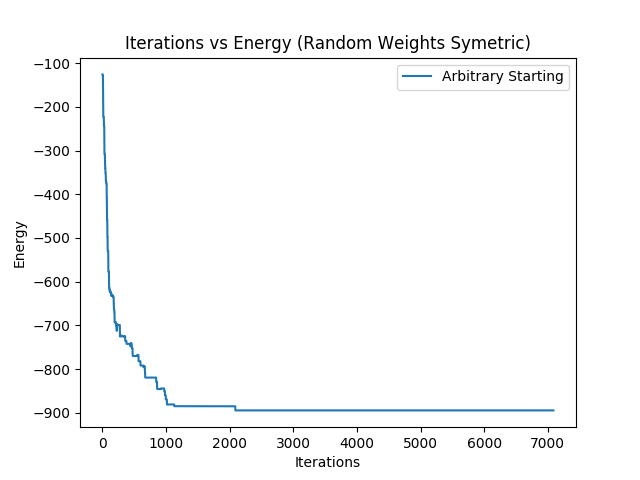
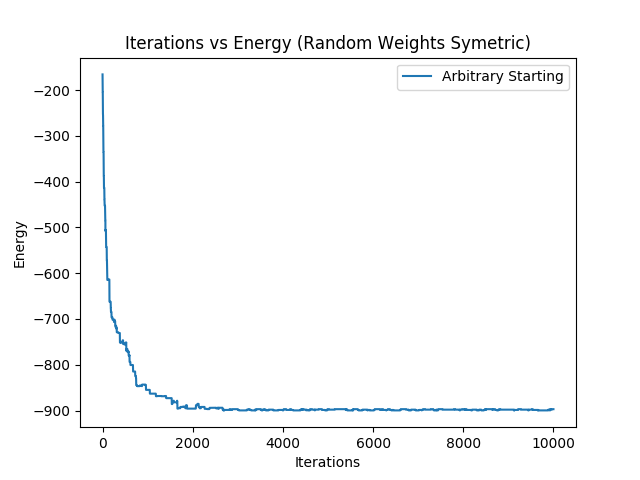
suppose to keep diagonal lol

diff --git a/lab3/_3_3.py b/lab3/_3_3.py
@@ -23,25 +23,23 @@ def plotCurves(curves, xlabel, ylabel, title, save_file=None):
 if __name__ == "__main__":
     images = loadImgs()
 
-    # net = Hopfield()
-    # net.train(images[:3])
+    net = Hopfield()
+    net.train(images[:3])
 
-    # print ("Energy at Attractors")
-    # for i, im in enumerate(images[:3]):
-    #     print (f"p{i+1} &", net.energy(im))
+    print ("Energy at Attractors")
+    for i, im in enumerate(images[:3]):
+        print (f"p{i+1} &", net.energy(im))
 
-    # print ("Energy at Distorted")
-    # for i, im in enumerate(images[9:]):
-    #     print (f"p{i+10} &", net.energy(im))
+    print ("Energy at Distorted")
+    for i, im in enumerate(images[9:]):
+        print (f"p{i+10} &", net.energy(im))
 
-    # p = []
-    # for i in (9,10):
-    #     net.predict_async(images[i])
-    #     p.append((f"p{i+1}", net.past_energy))
+    p = []
+    for i in (9,10):
+        net.predict_async(images[i])
+        p.append((f"p{i+1}", net.past_energy))
 
-    # print (dict(p))
-
-    # plotCurves(dict(p), "Iterations", "Energy", "Iterations vs Energy", save_file="3_3_it_vs_energy.png")
+    plotCurves(dict(p), "Iterations", "Energy", "Iterations vs Energy", save_file="pictures/3_3_it_vs_energy.png")
 
     net = Hopfield()
 
@@ -50,7 +48,7 @@ if __name__ == "__main__":
     assert not np.array_equal(net.W, net.W.T)
 
     x = sign(np.random.randn(100))
-    net.predict_async(x)
+    net.predict_async(x, max_iter=10000)
 
     plotCurves(
         {"Arbitrary Starting": net.past_energy},
@@ -65,7 +63,7 @@ if __name__ == "__main__":
     assert np.array_equal(net.W, net.W.T)
 
     x = sign(np.random.randn(100))
-    net.predict_async(x)
+    net.predict_async(x, max_iter=10000)
 
     plotCurves(
         {"Arbitrary Starting": net.past_energy},

diff --git a/lab3/_3_5.py b/lab3/_3_5.py
@@ -1,0 +1,33 @@
+from _3_1 import Hopfield, sign
+from _3_2 import loadImgs, showImage
+import numpy as np
+import matplotlib.pyplot as plt
+
+if __name__ == "__main__":
+    images = loadImgs()[:9]
+    images = np.flip(images, axis=0)
+    N = images.shape[1]
+
+    for train_idx in range(len(images)):
+        to_train = images[:train_idx + 1]
+
+        net = Hopfield()
+        net.train(to_train)
+
+        # try reconvering the last image (target) from a noisy version of target
+        target = to_train[0]
+
+        args = np.random.choice(N, int(0 * N), replace=False)
+        noisy = np.copy(target)
+        noisy[args] = noisy[args] * -1
+
+        pred = net.predict_sync(noisy)
+
+        # [ showImage(p) for p in pred ]
+
+        # print ("Target Energy", net.energy(target))
+        # print ("Pred Energy", net.energy(pred))
+
+        # rememberedAll = [ pred == target ] 
+
+        print(f"Num Trained {train_idx + 1}, Passed:", np.all(pred == target))

diff --git a/lab3/_3_1.py b/lab3/_3_1.py
@@ -11,7 +11,7 @@ class Hopfield:
             self.W += np.outer(x, x)
 
         # Do we get rid of diagonal?
-        np.fill_diagonal(self.W,0)
+        # np.fill_diagonal(self.W,0)
 
         self.W = self.W / len(samples)
 

diff --git a/lab3/_3_4.py b/lab3/_3_4.py
@@ -17,6 +17,7 @@ if __name__ == "__main__":
 
     print("Image & Max Noise Mean & Max Noise Std")
 
+    # For different images check
     for i, image_original in enumerate(images):
 
         max_noise = []
